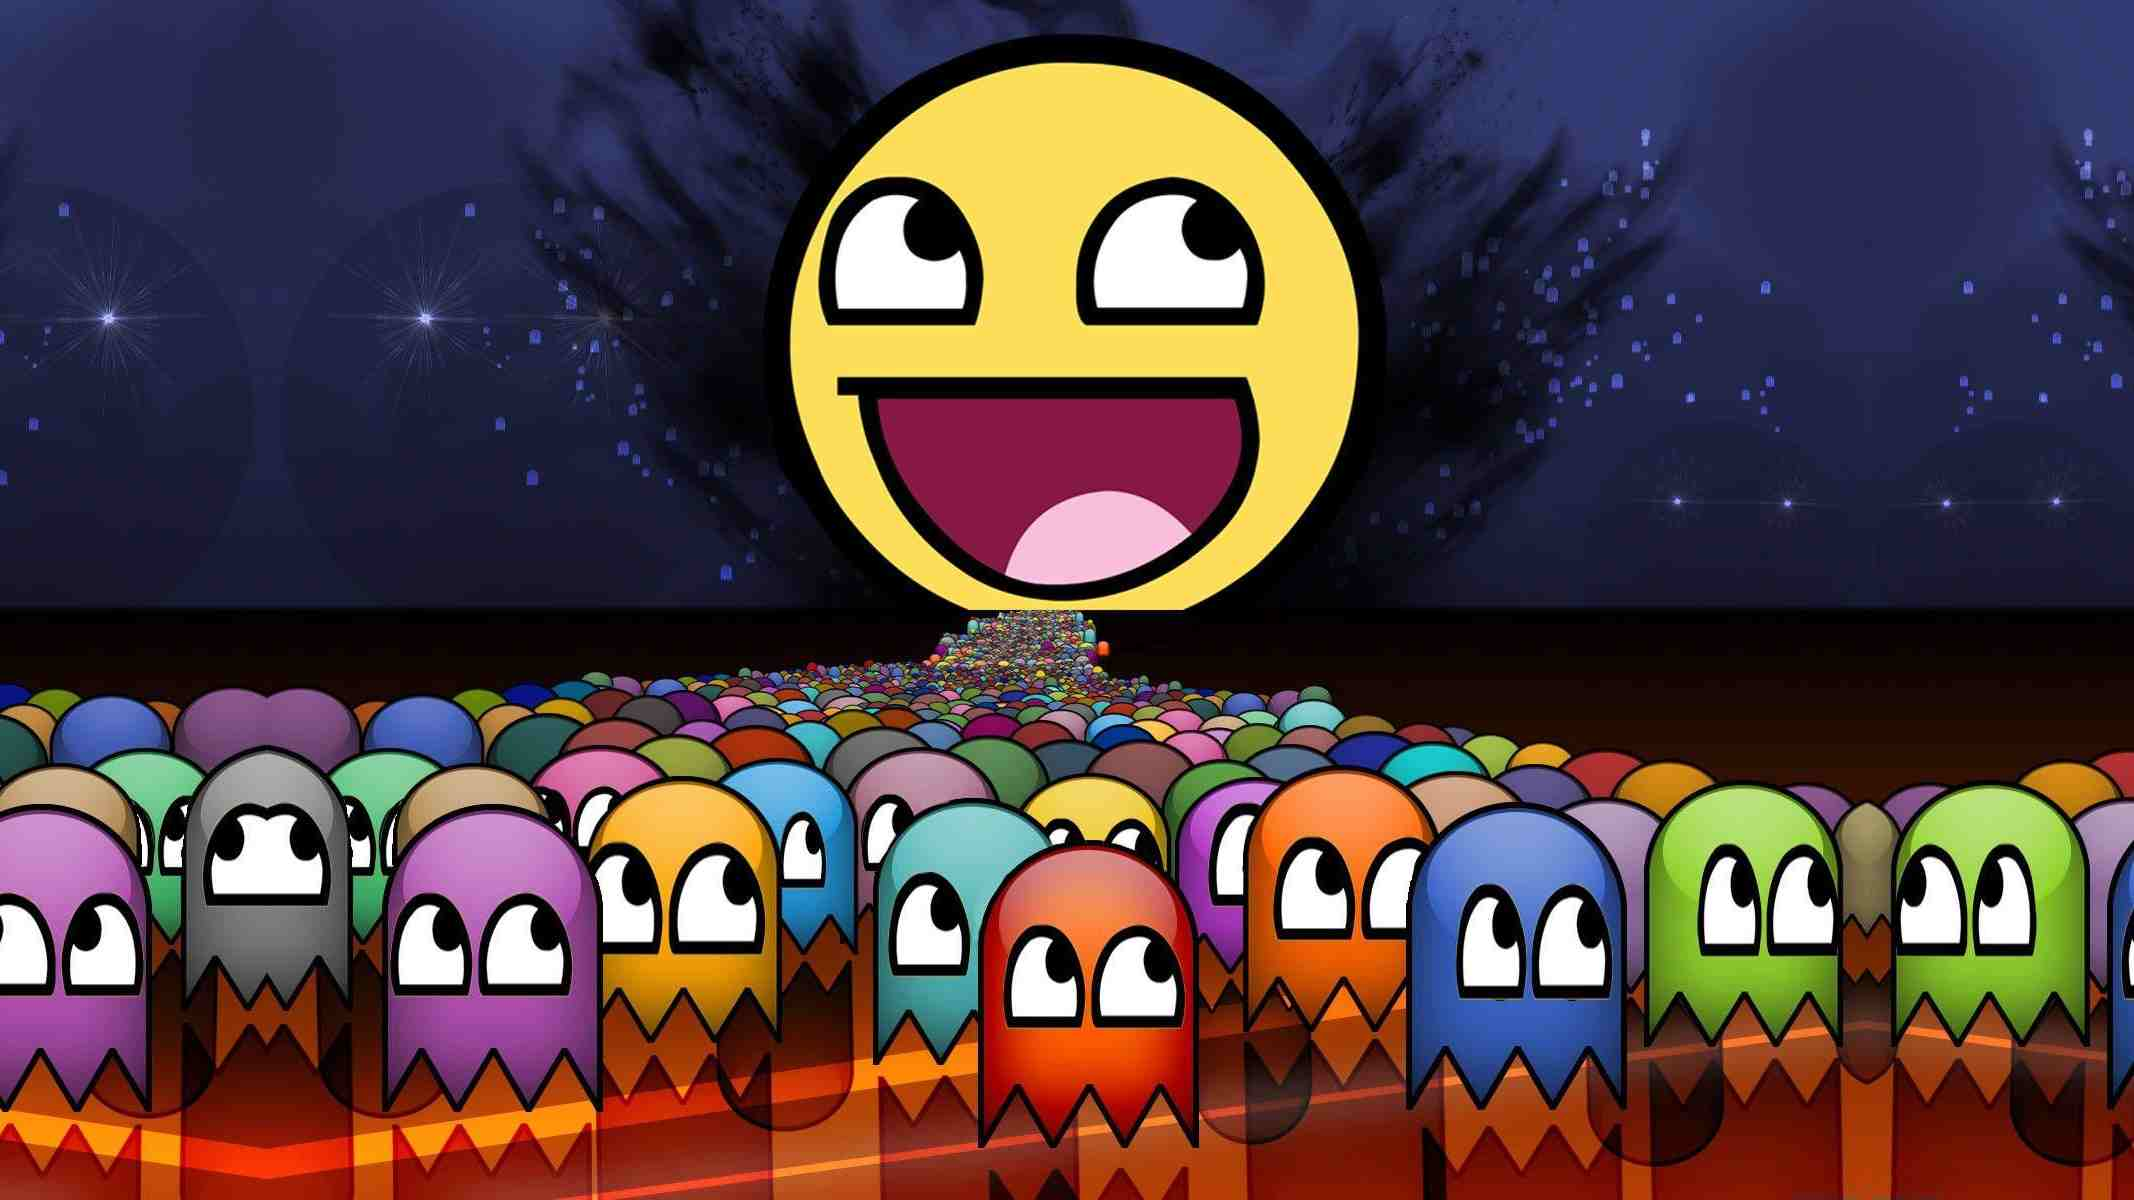
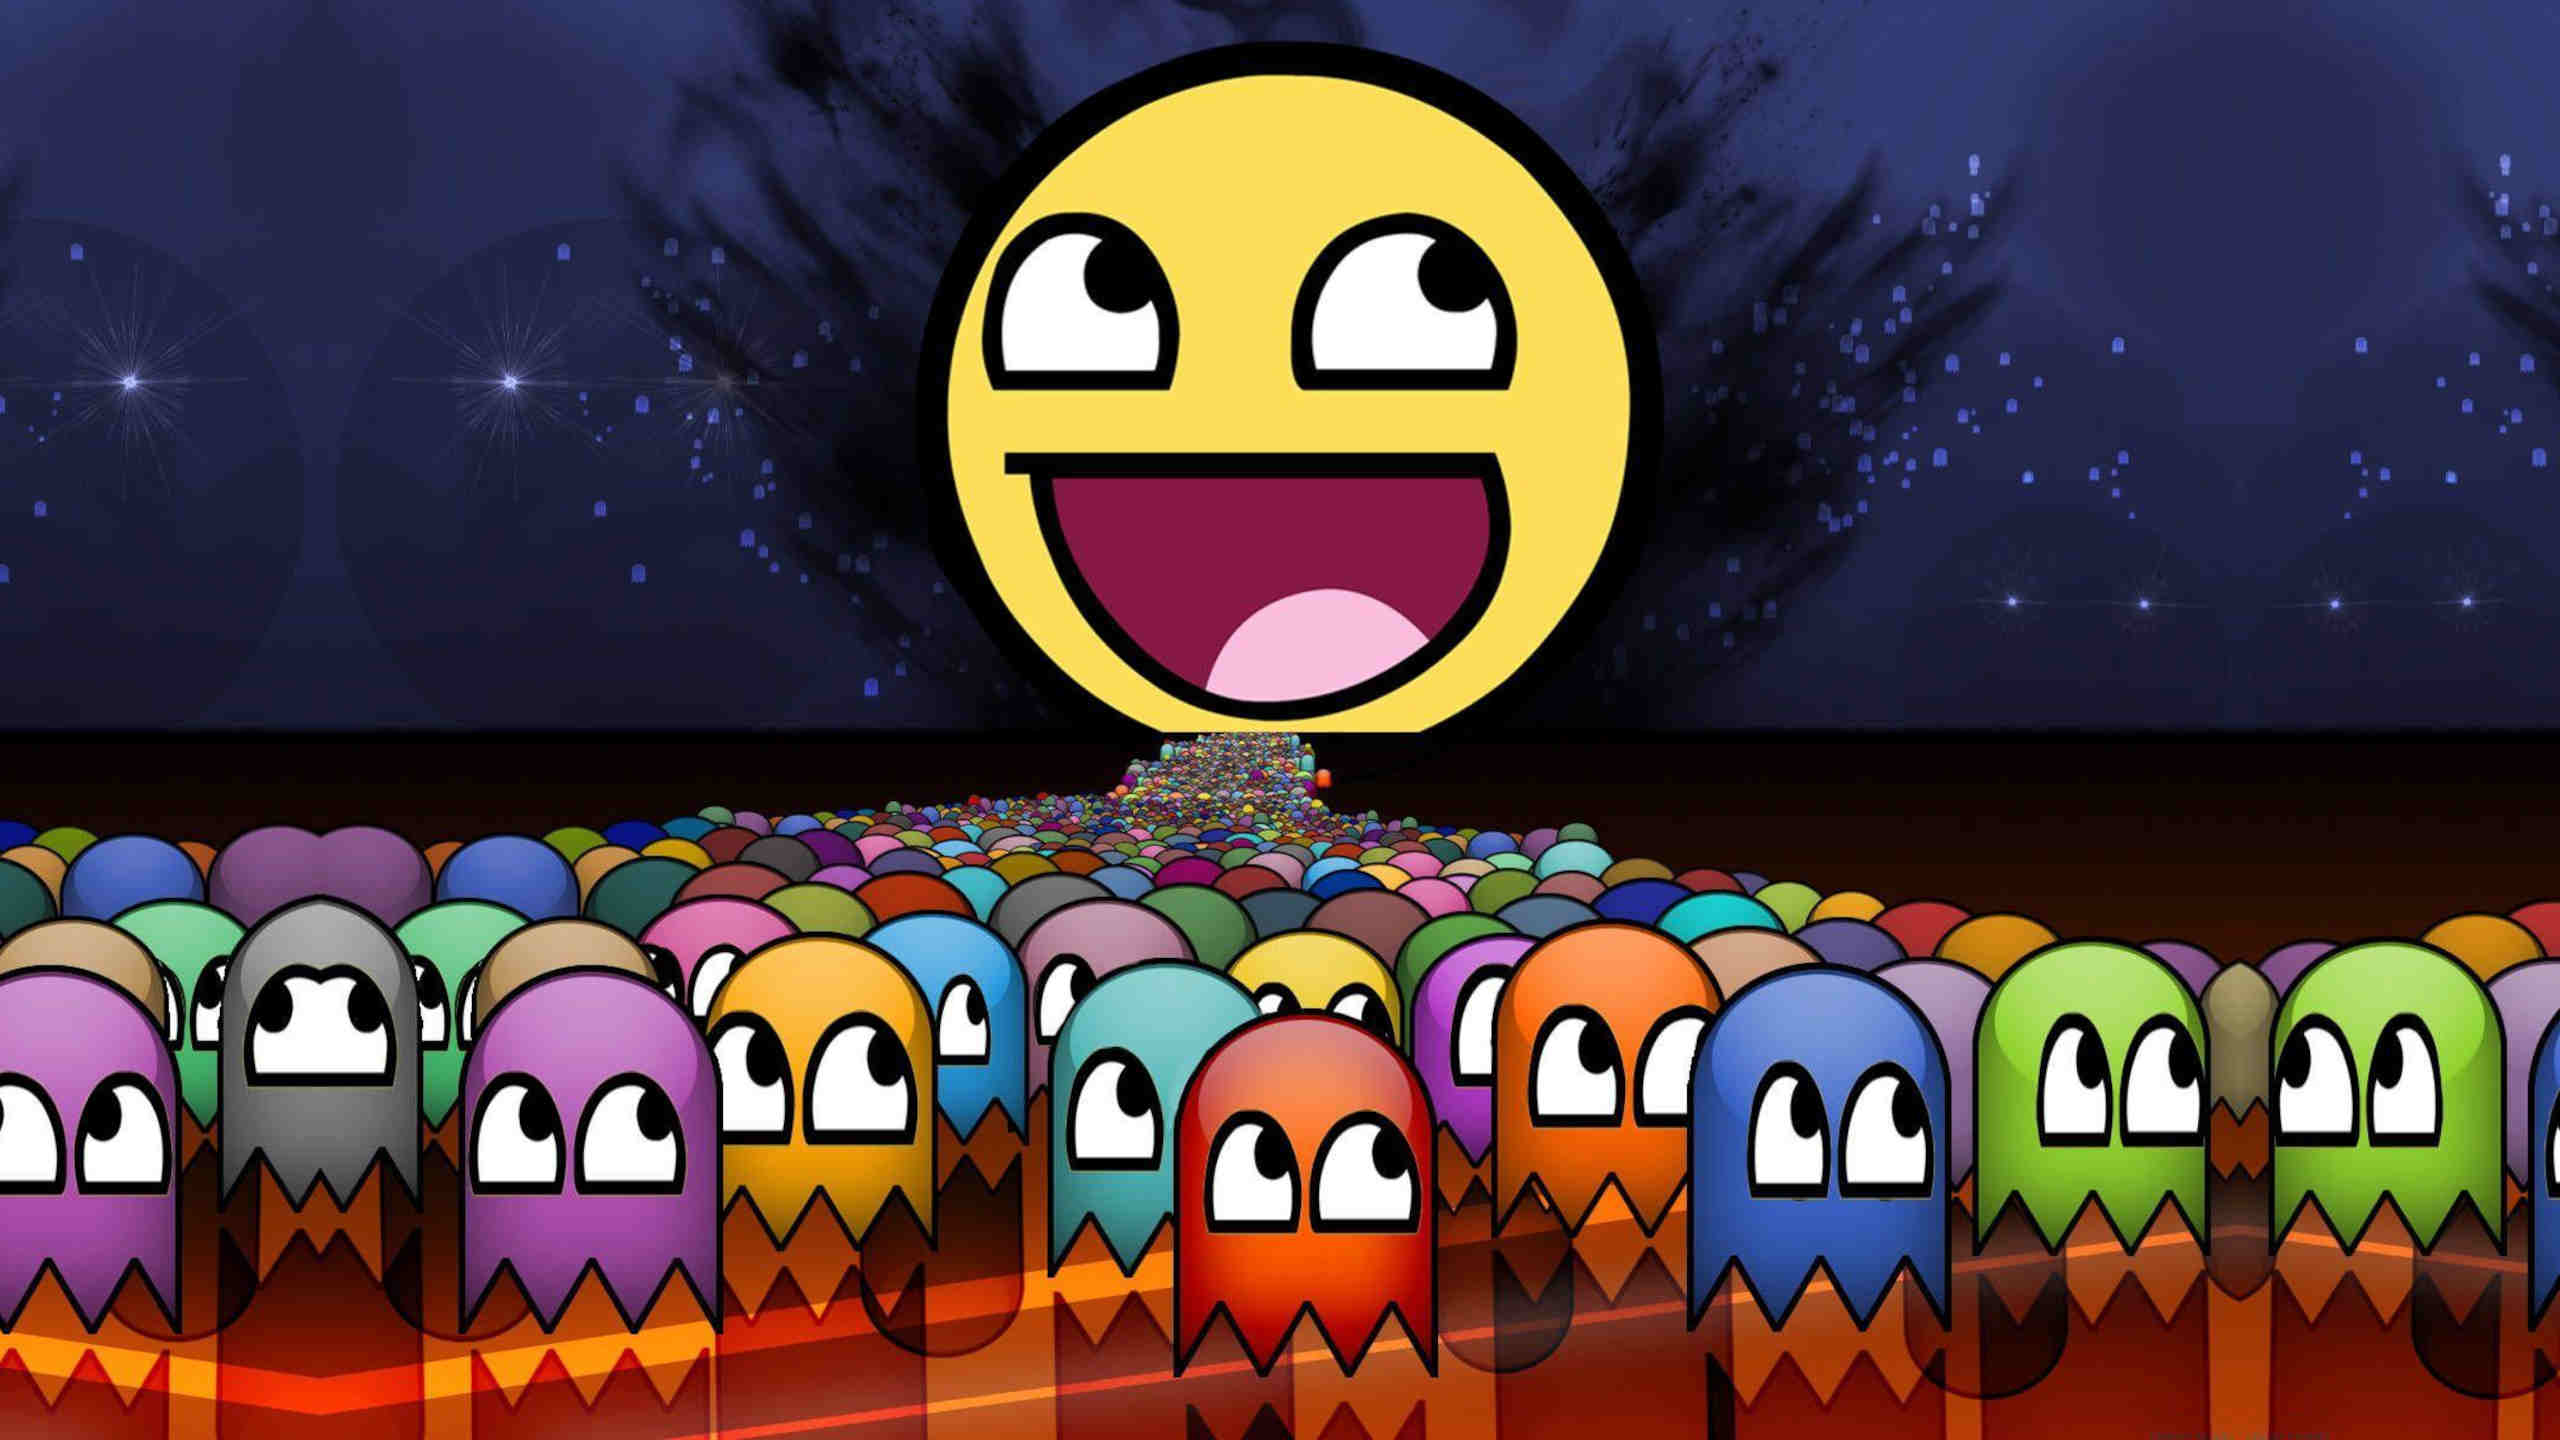
mise a la resolution 2560x1440 des fonds d'ecran

diff --git a/lib_pacman/game.py b/lib_pacman/game.py
@@ -48,11 +48,11 @@ class Game():
     game_over_area: pygame.Surface
     joy: pygame.joystick
 
-    area_score_height:int = 0
-    area_game_height:int = 0
-    main_area_width:int = 0
-    main_area_height:int = 0
-    main_area_center:int = 0
+    area_score_height: int = 0
+    area_game_height: int = 0
+    main_area_width: int = 0
+    main_area_height: int = 0
+    main_area_center: tuple[int, int] = (0, 0)
     resume:bool = False
     remain_time: float = 0
     loose: bool = False
@@ -75,10 +75,10 @@ class Game():
         pygame.display.set_caption("Pac-Man since 1980")
         # set main game window background
         Game.background = pygame.Surface(Game.window.get_size(), pygame.SRCALPHA)
-        bg_l: pygame.image = pygame.image.load(f"{Config.game_bg_l}")
-        bg_r: pygame.image = pygame.image.load(f"{Config.game_bg_r}")
-        Game.background.blit(bg_l, (Game.background.get_width() // 2 - bg_l.get_width(), 0))
-        Game.background.blit(bg_r, (Game.background.get_width() // 2, 0))
+        bg: pygame.image = pygame.image.load(f"{Config.game_bg}")
+        # bg_r: pygame.image = pygame.image.load(f"{Config.game_bg_r}")
+        Game.background.blit(bg, ((Game.background.get_width() - bg.get_width()) // 2, 0))
+        # Game.background.blit(bg_r, (Game.background.get_width() // 2, 0))
 
         # Game.main_area = pygame.display.set_mode((Game.main_area_width, Game.main_area_height))
         Game.main_area = pygame.Surface((Game.main_area_width, Game.main_area_height), pygame.SRCALPHA)

diff --git a/lib_pacman/config.py b/lib_pacman/config.py
@@ -28,7 +28,7 @@ class Config():
     sprite_super: str = "lib_pacman/images/super.png"
     logo: str = "lib_pacman/images/pacman-logo.png"
     game_over: str = "lib_pacman/images/game_over.png"
-    game_bg_l: str = "lib_pacman/images/pac-man-background-l.jpg"
+    game_bg: str = "lib_pacman/images/pac-man-background.jpg"
     game_bg_r: str = "lib_pacman/images/pac-man-background-r.jpg"
     menu_bg: str = "lib_pacman/images/pac-man-smile.jpg"
     hiscore_bg: str = "lib_pacman/images/pac-man-ce2.jpg"
